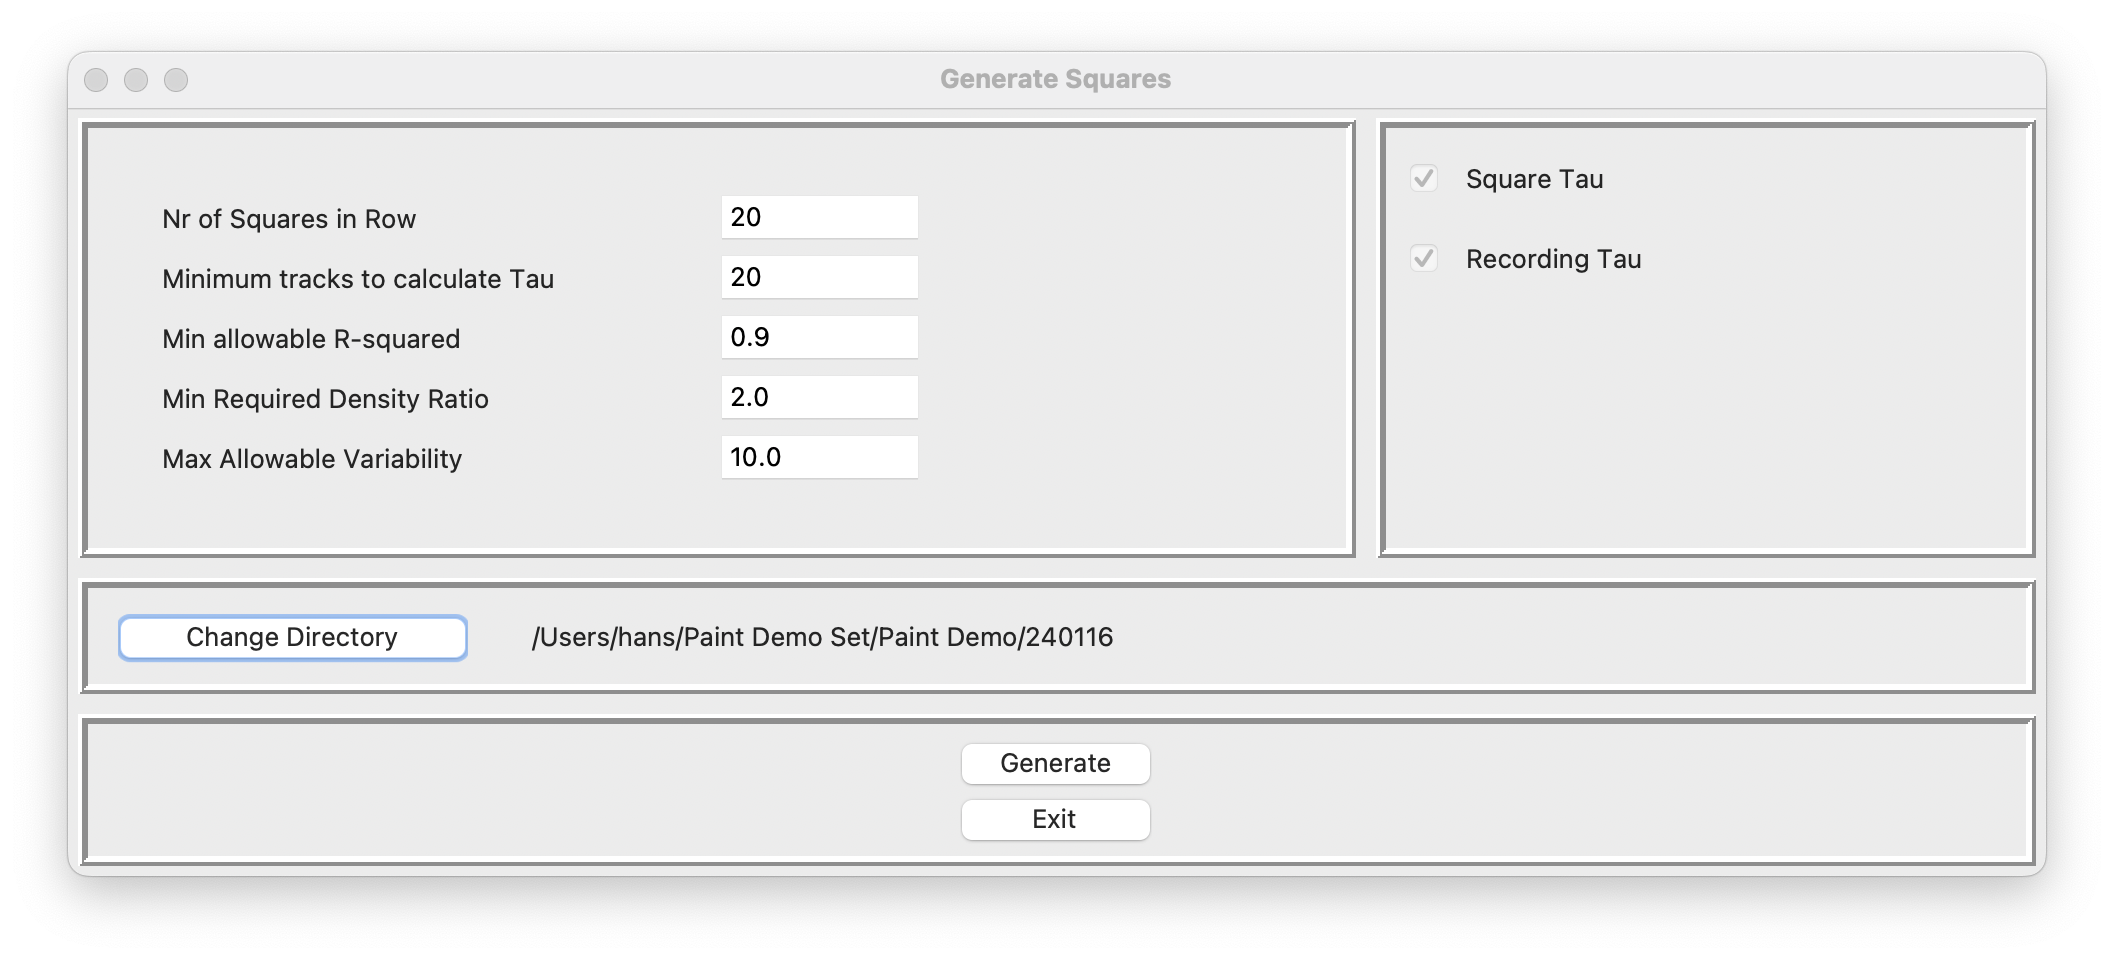
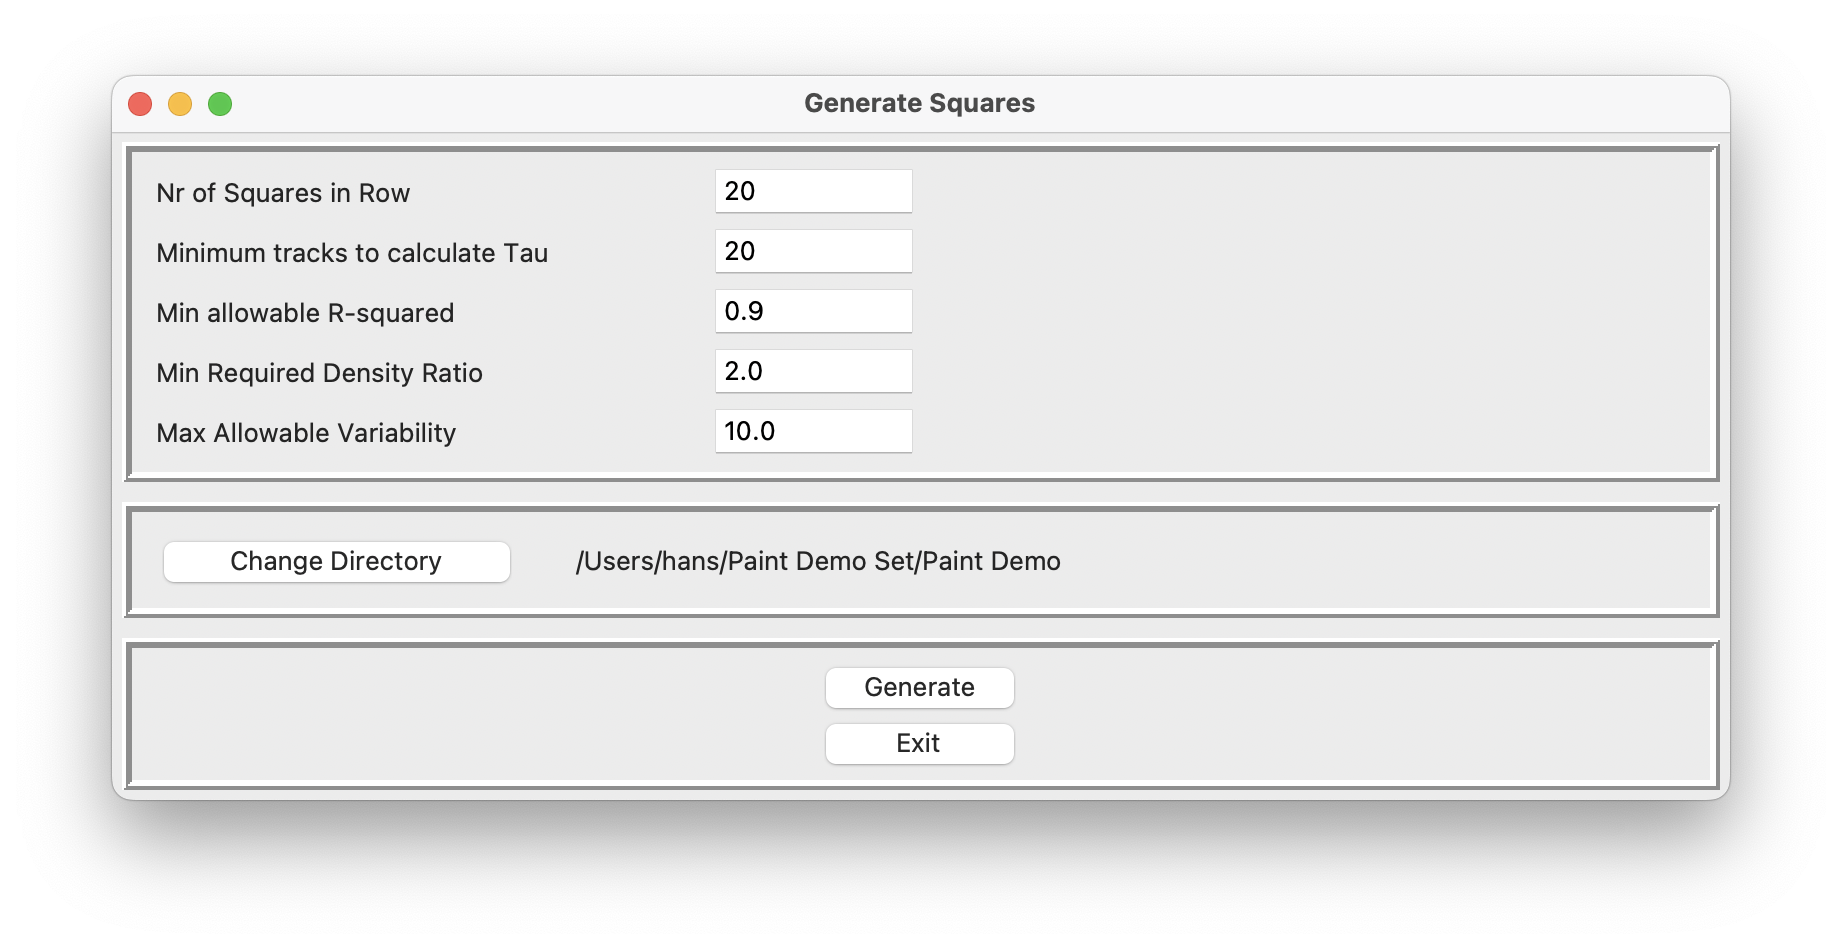
Remove the option to choose square or recording tau

diff --git a/src/Application/Generate_Squares/Generate_Squares_Dialog.py b/src/Application/Generate_Squares/Generate_Squares_Dialog.py
@@ -41,8 +41,6 @@ class GenerateSquaresDialog:
         min_allowable_r_squared = get_paint_attribute('Generate Squares', 'Min Allowable R Squared')
         min_required_density_ratio = get_paint_attribute('Generate Squares', 'Min Required Density Ratio')
         max_allowable_variability = get_paint_attribute('Generate Squares', 'Max Allowable Variability')
-        process_recording_tau = get_paint_attribute('Generate Squares', 'Process Recording Tau')
-        process_square_tau = get_paint_attribute('Generate Squares', 'Process Square Tau')
 
         self.project_directory = get_paint_attribute('User Directories', 'Project Directory')
         self.experiment_directory = get_paint_attribute('User Directories', 'Experiment Directory')
@@ -61,22 +59,18 @@ class GenerateSquaresDialog:
         self.min_allowable_r_squared = tk.DoubleVar(value=min_allowable_r_squared)
         self.min_required_density_ratio = tk.DoubleVar(value=min_required_density_ratio)
         self.max_allowable_variability = tk.DoubleVar(value=max_allowable_variability)
-        self.process_average_tau = tk.IntVar(value=process_recording_tau)
-        self.process_square_specific_tau = tk.IntVar(value=process_square_tau)
 
     def create_ui(self, _root):
         """Create and layout the UI components."""
         content = ttk.Frame(_root)
 
         # Define frames
-        frame_parameters = self.create_frame(content, 30)
-        frame_processing = self.create_frame(content)
+        frame_parameters = self.create_frame(content)
         frame_directory = self.create_frame(content)
         frame_buttons = self.create_frame(content)
 
         # Create controls in frames
         self.create_parameter_controls(frame_parameters)
-        self.create_processing_controls(frame_processing)
         self.create_directory_controls(frame_directory)
         self.create_button_controls(frame_buttons)
 
@@ -88,11 +82,8 @@ class GenerateSquaresDialog:
         _root.grid_columnconfigure(0, weight=1)  # Center horizontally
 
         # Layout the frames
-        frame_parameters.grid(column=0, row=0, padx=5, pady=5, sticky="nsew")
-        frame_processing.grid(column=1, row=0, padx=5, pady=5, sticky="nsew")
+        frame_parameters.grid(column=0, row=0, columnspan=2, padx=5, pady=5, sticky="nsew")
         frame_directory.grid(column=0, row=1, columnspan=2, padx=5, pady=5, sticky="nsew")
-
-        # Center the button frame exactly in the middle
         frame_buttons.grid(column=0, row=2, columnspan=2, padx=5, pady=5, sticky="nsew")
         _root.grid_rowconfigure(2, weight=1)
         _root.grid_columnconfigure(0, weight=1)
@@ -135,21 +126,10 @@ class GenerateSquaresDialog:
         msg_square_tau = "If checked, the program will calculate a Tau for each square individually."
         msg_recording_tau = "If checked, the program will calculate one Tau for all visible squares combined."
 
-        self.create_checkbox(frame, "Square Tau", self.process_square_specific_tau, 0, tooltip=msg_square_tau)
-        self.create_checkbox(frame, "Recording Tau", self.process_average_tau, 1, tooltip=msg_recording_tau)
-
-    def create_checkbox(self, frame, text, var, row, tooltip=None):
-        """Helper method to create a labeled checkbox."""
-        checkbox = ttk.Checkbutton(frame, text=text, variable=var)
-        checkbox.grid(column=0, row=row, padx=5, pady=10, sticky=tk.W)
-        checkbox.config(padding=(10, 0, 0, 0))
-        if tooltip:
-            ToolTip(checkbox, tooltip, wraplength=400)
-
     def create_directory_controls(self, frame):
         """Create controls for directory management."""
         btn_change_dir = ttk.Button(frame, text='Change Directory', width=15, command=self.on_change_dir)
-        self.lbl_directory = ttk.Label(frame, text=self.paint_directory, width=80)
+        self.lbl_directory = ttk.Label(frame, text=self.paint_directory, width=60)
         btn_change_dir.grid(column=0, row=0, padx=10, pady=5)
         self.lbl_directory.grid(column=1, row=0, padx=20, pady=5)
 
@@ -221,8 +201,6 @@ class GenerateSquaresDialog:
             nr_of_squares_in_row=self.nr_of_squares_in_row.get(),
             min_allowable_r_squared=self.min_allowable_r_squared.get(),
             min_tracks_for_tau=self.min_tracks_for_tau.get(),
-            process_recording_tau=self.process_average_tau.get(),
-            process_square_tau=self.process_square_specific_tau.get(),
             paint_force=True
         )
         run_time = time.time() - start_time
@@ -236,8 +214,6 @@ class GenerateSquaresDialog:
         update_paint_attribute('Generate Squares', 'Min Allowable R Squared', self.min_allowable_r_squared.get())
         update_paint_attribute('Generate Squares', 'Min Required Density Ratio', self.min_required_density_ratio.get())
         update_paint_attribute('Generate Squares', 'Max Allowable Variability', self.max_allowable_variability.get())
-        update_paint_attribute('Generate Squares', 'Process Recording Tau', self.process_average_tau.get())
-        update_paint_attribute('Generate Squares', 'Process Square Tau', self.process_square_specific_tau.get())
 
         update_paint_attribute('User Directories', 'Project Directory', self.project_directory)
         update_paint_attribute('User Directories', 'Experiment Directory', self.experiment_directory)

diff --git a/src/Application/Generate_Squares/Generate_Squares.py b/src/Application/Generate_Squares/Generate_Squares.py
@@ -58,8 +58,6 @@ def process_project(
         nr_of_squares_in_row: int,
         min_allowable_r_squared: float,
         min_tracks_for_tau: int,
-        process_recording_tau: bool = True,
-        process_square_tau: bool = True,
         paint_force: bool = False) -> None:
     """
     This function processes all Recordings in a Project.
@@ -97,9 +95,7 @@ def process_project(
             select_parameters=select_parameters,
             nr_of_squares_in_row=nr_of_squares_in_row,
             min_allowable_r_squared=min_allowable_r_squared,
-            min_tracks_for_tau=min_tracks_for_tau,
-            process_recording_tau=process_recording_tau,
-            process_square_tau=process_square_tau)
+            min_tracks_for_tau=min_tracks_for_tau)
         nr_experiments_processed += 1
 
     return nr_experiments_processed
@@ -120,8 +116,6 @@ def process_experiment(
         nr_of_squares_in_row: int,
         min_allowable_r_squared: float,
         min_tracks_for_tau: int,
-        process_recording_tau: bool = True,
-        process_square_tau: bool = True,
         paint_force: bool = False) -> None:
     """
     This function processes all Recordings in an Experiment.
@@ -189,8 +183,6 @@ def process_experiment(
             nr_of_squares_in_row,
             min_allowable_r_squared,
             min_tracks_for_tau,
-            process_recording_tau,
-            process_square_tau,
             plot_to_file)
         if df_squares_of_recording is None:
             paint_logger.error("Aborted with error")
@@ -240,8 +232,6 @@ def process_recording(
         nr_of_squares_in_row: int,
         min_allowable_r_squared: float,
         min_tracks_for_tau: int,
-        process_recording_tau: bool,
-        process_square_tau: bool,
         plot_to_file: False) -> tuple:
     """
     This function processes a single Recording in an Experiment. It creates a grid of squares.
@@ -286,7 +276,6 @@ def process_recording(
             concentration,
             min_allowable_r_squared,
             min_tracks_for_tau,
-            process_square_tau,
             square_area,
             square_seq_nr,
             row_nr,
@@ -321,17 +310,15 @@ def process_recording(
     # Refresh df_tracks_of_recording now to pick up Label and Square Nrs
     df_tracks_of_recording = df_tracks_of_recording[df_tracks_of_recording['Ext Recording Name'] == recording_name]
 
-    if process_recording_tau:
-        recording_tau, recording_r_squared, recording_density = calculate_tau_and_density_for_recording(
-            df_squares_of_recording,
-            df_tracks_of_recording,
-            min_tracks_for_tau,
-            min_allowable_r_squared,
-            nr_of_squares_in_row,
-            float(recording_data['Concentration']),
-            select_parameters)
-    else:
-        recording_tau = recording_r_squared = recording_density = 0
+
+    recording_tau, recording_r_squared, recording_density = calculate_tau_and_density_for_recording(
+        df_squares_of_recording,
+        df_tracks_of_recording,
+        min_tracks_for_tau,
+        min_allowable_r_squared,
+        nr_of_squares_in_row,
+        float(recording_data['Concentration']),
+        select_parameters)
 
     return df_squares_of_recording, df_tracks_of_recording, recording_tau, recording_r_squared, recording_density
 
@@ -352,7 +339,6 @@ def process_square(
         concentration: float,
         min_allowable_r_squared: float,
         min_tracks_for_tau: int,
-        process_square_tau: bool,
         square_area: float,
         square_seq_nr: int,
         row_nr: int,
@@ -373,7 +359,7 @@ def process_square(
         average_long_track = 0
         max_track_duration = 0
         r_squared = 0
-        tau = -1 if process_square_tau else 0
+        tau = -1
         density = 0
         variability = 0
         dc_mean = 0
@@ -392,12 +378,11 @@ def process_square(
         # Calculate the Tau and R squared for the square
         tau = 0
         r_squared = 0
-        if process_square_tau:
-            df_tracks_for_tau = extra_constraints_on_tracks_for_tau_calculation(df_tracks_of_square)
-            tau, r_squared = calculate_tau(
-                df_tracks_for_tau,
-                min_tracks_for_tau,
-                min_allowable_r_squared)
+        df_tracks_for_tau = extra_constraints_on_tracks_for_tau_calculation(df_tracks_of_square)
+        tau, r_squared = calculate_tau(
+            df_tracks_for_tau,
+            min_tracks_for_tau,
+            min_allowable_r_squared)
 
         # Calculate the density for the square-
         density = calculate_density(

diff --git a/src/Application/Run Projects Batch.py b/src/Application/Run Projects Batch.py
@@ -39,8 +39,6 @@ def process_json_configuration_block(paint_source_dir,
                                      current_process: int,
                                      min_allowable_r_squared: float,
                                      min_tracks_for_tau: int,
-                                     process_recording_tau: bool,
-                                     process_square_tau: bool,
                                      time_string: str,
                                      paint_force: bool,
                                      drop_empty_squares: bool) -> bool:
@@ -52,8 +50,6 @@ def process_json_configuration_block(paint_source_dir,
     paint_logger.info(msg)
     paint_logger.info("")
     paint_logger.info(f"Probe Series                : {probe}")
-    paint_logger.info(f"Process Square Tau          : {process_square_tau}")
-    paint_logger.info(f"Process Recording Tau       : {process_recording_tau}")
     paint_logger.info(f"Number of squares           : {nr_of_squares_in_row}")
     paint_logger.info(f"Min Required Density Ratio  : {select_parameters['min_required_density_ratio']}")
     paint_logger.info(f"Max Allowable Variability   : {select_parameters['max_allowable_variability']}")
@@ -91,8 +87,6 @@ def process_json_configuration_block(paint_source_dir,
         nr_of_squares_in_row=nr_of_squares_in_row,
         min_allowable_r_squared=min_allowable_r_squared,
         min_tracks_for_tau=min_tracks_for_tau,
-        process_recording_tau=process_recording_tau,
-        process_square_tau=process_square_tau,
         paint_force=paint_force)
 
     # Compile the All Recordings and All Squares files
@@ -228,8 +222,6 @@ def main():
                     select_parameters=select_parameters,
                     min_allowable_r_squared=entry['min_allowable_r_squared'],
                     min_tracks_for_tau=entry['min_tracks_for_tau'],
-                    process_recording_tau=entry['process_recording_tau'],
-                    process_square_tau=entry['process_square_tau'],
                     time_string=time_string,
                     paint_force=paint_force,
                     drop_empty_squares=drop_empty_squares):

diff --git a/src/Fiji/PaintConfig.py b/src/Fiji/PaintConfig.py
@@ -49,8 +49,7 @@ default_data = {
         'Min Allowable R Squared': 0.9,
         "Min Required Density Ratio": 2.0,
         "Max Allowable Variability": 10.0,
-        "Process Recording Tau": True,
-        "Process Square Tau": True,
+
         "logging": {
             "level": "INFO",
             "file": "Generate Squares.log"
